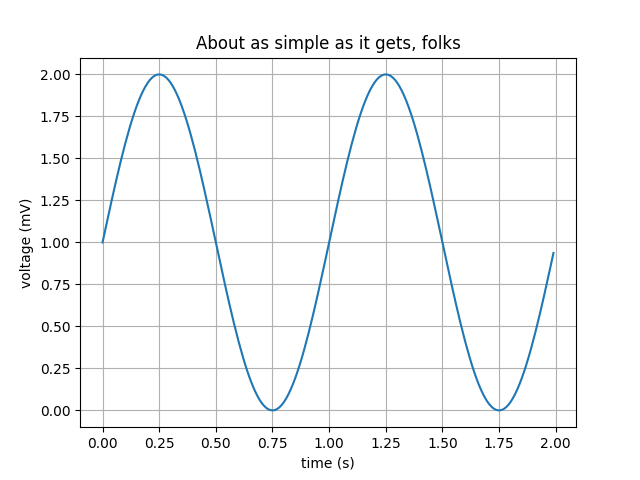
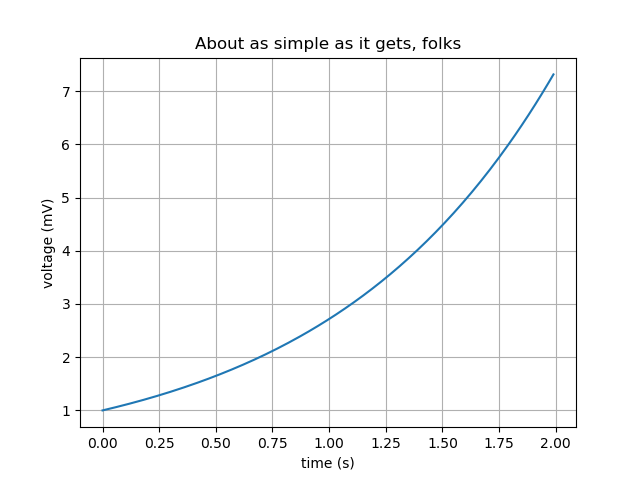
Added the testing using Roulette for Monte Carlo Simulations

diff --git a/Testing/FairRoulette.py b/Testing/FairRoulette.py
@@ -1,0 +1,36 @@
+import random
+
+class FairRoulette():
+
+    '''
+    The basics for a fair Roulette Game. 
+    Taken from the Monte Carlo youtube Video https://www.youtube.com/watch?v=OgO1gpXSUzU
+    '''
+    def __init__(self):
+        self.pockets = []
+        for i in range(1, 37):
+            self.pockets.append(i)
+        self.ball = None
+        self.pocketOdds = len(self.pockets) - 1
+    
+    '''
+    Spins the ball
+    '''
+    def spin(self):
+        self.ball = random.choice(self.pockets)
+    
+    '''
+    Places a bet on the given pocket with a given amount.
+    Returns the won amount
+    '''
+    def betPocket(self, pocket, amt):
+        if str(pocket) == str(self.ball):
+            return self.pocketOdds * amt
+        else:
+            return -amt
+    
+    '''
+    String stuff
+    '''
+    def __str__(self):
+        return 'Fair Roulette'

diff --git a/Testing/PlayRoulette.py b/Testing/PlayRoulette.py
@@ -1,0 +1,20 @@
+import FairRoulette
+import random
+
+'''
+Given the game, number of spins and the bet on the pocket returns what the net gain/loss is
+'''
+def playRoulette(game, numSpins, pocket, bet, toPrint):
+    totPockets = 0
+    for i in range(numSpins):
+        game.spin()
+        totPockets += game.betPocket(pocket, bet)
+    if toPrint:
+        print(numSpins, 'spins of', game)
+        print('Expected return betting', pocket, '=', str(100*totPockets/numSpins) + '%\n')
+    return (totPockets/numSpins)
+
+game = FairRoulette.FairRoulette()
+for numSpins in (100, 1000000):
+    for i in range(3):
+        playRoulette(game, numSpins, 2, 1, True)

diff --git a/main.py b/main.py
@@ -4,7 +4,7 @@ import numpy as np
 import math
 
 t = np.arange(0.0, 2.0, 0.01)
-s = 1 + np.sin(2 * np.pi *t)
+s = np.e ** t
 
 fig, ax = plt.subplots()
 ax.plot(t,s)
@@ -13,5 +13,6 @@ ax.grid()
 
 fig.savefig('test.png')
 plt.show()
+
 
 print("Hello World")
